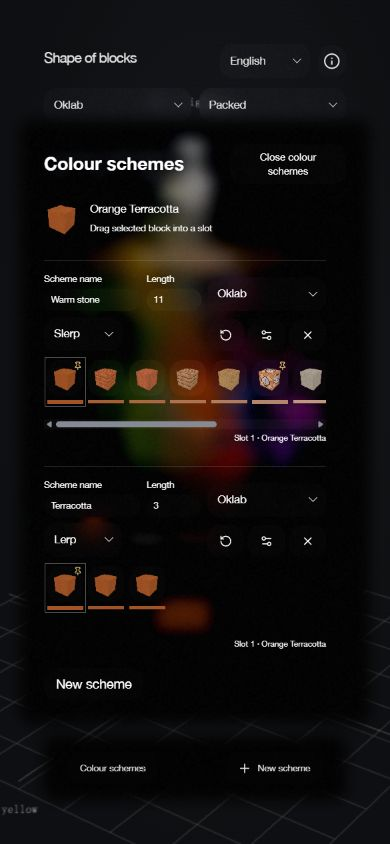
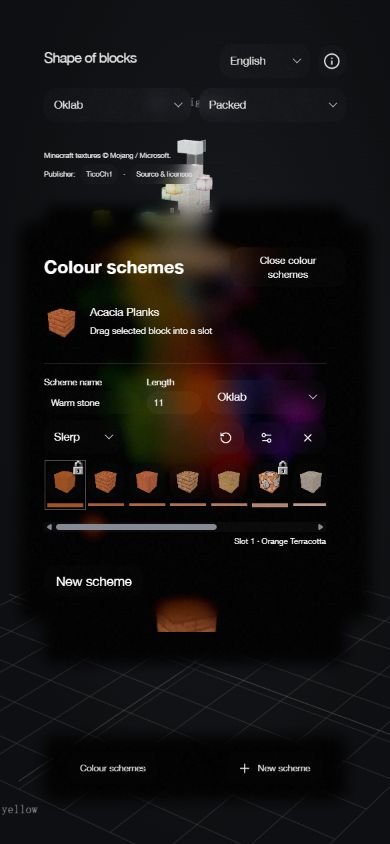
Keep colour scheme blocks unique and use vanilla lock badge

diff --git a/src/ColourSchemes.tsx b/src/ColourSchemes.tsx
@@ -2,10 +2,10 @@ import {BlockThumbnail} from './BlockThumbnail';
 import {DraggableBlock} from './DraggableBlock';
 import {useEffect,useMemo,useState} from 'react';
 import {GlassPanel,GlassButton,GlassInput,GlassSelect,GlassSwitch,GlassScrollArea,GlassDialog} from '@form-glass/react';
-import {Plus,Settings2,X,Pin,RotateCcw} from 'lucide-react';
+import {Plus,Settings2,X,RotateCcw} from 'lucide-react';
 import {GeometryFilter} from './GeometryFilter';
 import {VarianceRange} from './VarianceRange';
-import {schemeCells,toggleSchemePin,refreshScheme,dropSchemeBlock,resizeScheme,schemeLength,schemeMime} from './schemes.mjs';
+import {uniqueScheme,schemeCells,toggleSchemePin,refreshScheme,dropSchemeBlock,resizeScheme,schemeLength,schemeMime} from './schemes.mjs';
 import {spaces} from './spaces.mjs';
 import {materialVariance,filterBlocks} from './color.mjs';
 import {useLocale} from './i18n';
@@ -32,7 +32,7 @@ function SchemeRow({scheme,blocks,resources,collection,blacklist,onChange,onDele
   </div>
   <GlassScrollArea label="Scheme blocks" height={78} viewportClassName="scheme-cells-viewport"><div className="scheme-cells">
    {cells.map(cell=><div key={cell.index} className="scheme-cell" data-scheme-id={scheme.id} data-scheme-slot={cell.index} data-anchor={cell.anchor} data-selected={slot===cell.index} data-drop={hover===cell.index} onDragOver={e=>{if(e.dataTransfer.types.includes(schemeMime)||e.dataTransfer.types.includes('text/plain')){e.preventDefault();e.dataTransfer.dropEffect='copy';setHover(cell.index);}}} onDragLeave={()=>setHover(null)} onDrop={e=>{e.preventDefault();setHover(null);const id=e.dataTransfer.getData(schemeMime)||e.dataTransfer.getData('text/plain');if(blocks.some(b=>b.id===id))document.dispatchEvent(new CustomEvent('block-gamut-scheme-drop',{detail:{scheme:scheme.id,slot:cell.index,block:id}}));}}>
-    <DraggableBlock id={cell.id||cell.block?.id||''} name={cell.block?.name||cell.id||t('Empty slot')} source={{scheme:scheme.id,slot:cell.index}} className="scheme-block" onClick={()=>toggle(cell.index)}><GlassButton aria-label={`${t('Scheme slot')} ${cell.index+1}: ${cell.id||cell.block?.id||'minecraft:air'}`} aria-pressed={cell.anchor} title={cell.block?`${cell.block.name} · ${cell.block.id}\n${t('Click to pin or unpin')}`:cell.id?`${cell.id} · ${t('Unavailable in this release')}`:t('Drop a block here')} onClick={e=>{if(e.detail===0)toggle(cell.index);}}>{cell.block?<BlockThumbnail id={cell.block.id} resources={resources}/>:<span aria-hidden="true">+</span>}{cell.anchor&&<Pin className="scheme-pin" size={9}/>}</GlassButton></DraggableBlock>
+    <DraggableBlock id={cell.id||cell.block?.id||''} name={cell.block?.name||cell.id||t('Empty slot')} source={{scheme:scheme.id,slot:cell.index}} className="scheme-block" onClick={()=>toggle(cell.index)}><GlassButton aria-label={`${t('Scheme slot')} ${cell.index+1}: ${cell.id||cell.block?.id||'minecraft:air'}`} aria-pressed={cell.anchor} title={cell.block?`${cell.block.name} · ${cell.block.id}\n${t('Click to pin or unpin')}`:cell.id?`${cell.id} · ${t('Unavailable in this release')}`:t('Drop a block here')} onClick={e=>{if(e.detail===0)toggle(cell.index);}}>{cell.block?<BlockThumbnail id={cell.block.id} resources={resources}/>:<span aria-hidden="true">+</span>}{cell.anchor&&<span className="scheme-pin" aria-hidden="true"/>}</GlassButton></DraggableBlock>
     <span className="scheme-target" style={{background:cell.target||'transparent'}} title={cell.target||t('No control points')}/>
    </div>)}
   </div></GlassScrollArea>
@@ -42,7 +42,12 @@ function SchemeRow({scheme,blocks,resources,collection,blacklist,onChange,onDele
 
 export function ColourSchemes({blocks,resources,selected,space,categories,collection,blacklist,onPick}:{blocks:Block[];resources:ModelResources|null;selected:Block|undefined;space:Space;categories:string[];collection:string[];blacklist:string[];onPick:(id:string)=>void}){
  const {view,t}=useLocale();
- const [schemes,setSchemes]=useState<Scheme[]>(()=>JSON.parse(localStorage.getItem('block-gamut-schemes')||'[]',(_key,value)=>value==='Infinity'?Infinity:value).map((s:Scheme)=>s.tiles?s:{...s,tiles:schemeCells(s,blocks,{collection,blacklist}).map(c=>c.id||c.block?.id||null)}));
+ const [schemes,setSchemes]=useState<Scheme[]>(()=>JSON.parse(localStorage.getItem('block-gamut-schemes')||'[]',(_key,value)=>value==='Infinity'?Infinity:value).map((s:Scheme)=>{
+  const normalized=uniqueScheme(s);
+  const ids=s.tiles?.filter(Boolean)||[];
+  if(new Set(ids).size<ids.length)return refreshScheme(normalized,blocks,{collection,blacklist});
+  return normalized.tiles?normalized:{...normalized,tiles:schemeCells(normalized,blocks,{collection,blacklist}).map(c=>c.id||c.block?.id||null)};
+ }));
  const [settings,setSettings]=useState<string|null>(null),[expanded,setExpanded]=useState(true),[mobileOpen,setMobileOpen]=useState(false);
  useEffect(()=>localStorage.setItem('block-gamut-schemes',JSON.stringify(schemes,(_key,value)=>value===Infinity?'Infinity':value)),[schemes]);
  useEffect(()=>{const drop=(event:Event)=>setSchemes(list=>dropSchemeBlock(list,(event as CustomEvent).detail,blocks,{collection,blacklist}));document.addEventListener('block-gamut-scheme-drop',drop);return()=>document.removeEventListener('block-gamut-scheme-drop',drop);},[blocks,collection,blacklist]);

diff --git a/src/style.css b/src/style.css
@@ -59,7 +59,7 @@ html,body,#atlas,[data-form-glass-root]{height:100%;width:100%;margin:0}body{ove
 .draggable-block{cursor:grab}.draggable-block:active{cursor:grabbing}.drag-block-hint{font-size:9px!important}
 .colour-schemes{--schemes-height:min(220px,calc(100dvh - 390px));position:absolute!important;bottom:136px;left:50%;transform:translateX(-50%);width:min(640px,calc(100dvw - 736px));min-width:280px;box-sizing:border-box;padding:24px 32px!important}
 .scheme-manager-heading{display:flex;justify-content:space-between;align-items:center;gap:8px}.scheme-manager-heading button{font-size:10px;gap:6px}.scheme-rows{padding:4px 18px 4px 0}.scheme-row{padding:12px 0;border-top:1px solid var(--line);margin-top:8px}.scheme-row-heading{display:flex;align-items:center;gap:6px;font-size:11px}.scheme-row-heading button{padding:6px;min-height:25px}
-.scheme-cells{display:flex;gap:5px;width:max-content;padding:9px 3px}.scheme-cell{width:40px;position:relative}.scheme-block>button{width:40px;height:40px;padding:4px;position:relative}.scheme-cell canvas{width:32px;height:32px;display:block;image-rendering:pixelated}.scheme-cell[data-selected=true]{outline:1px solid #ffffff60;outline-offset:2px}.scheme-cell[data-drop=true]{outline:1px solid #e8c67a;outline-offset:2px}.scheme-pin{position:absolute;right:1px;top:1px;color:#e8c67a}.scheme-target{height:3px;margin-top:4px;display:block}.scheme-row-actions{display:flex;align-items:center;gap:4px;flex-wrap:wrap}.scheme-row-actions button{font-size:8px;padding:5px 7px;min-height:25px}.scheme-row-actions>span{font-size:8px;color:var(--muted);margin-left:auto}.scheme-hint{font-size:9px;line-height:1.6;color:var(--muted);padding-right:18px;margin:5px 0}.scheme-settings-content{display:flex;flex-direction:column;gap:10px;padding-right:20px}.scheme-settings-content .glass-select{width:100%}
+.scheme-cells{display:flex;gap:5px;width:max-content;padding:9px 3px}.scheme-cell{width:40px;position:relative}.scheme-block>button{width:40px;height:40px;padding:4px;position:relative}.scheme-cell canvas{width:32px;height:32px;display:block;image-rendering:pixelated}.scheme-cell[data-selected=true]{outline:1px solid #ffffff60;outline-offset:2px}.scheme-cell[data-drop=true]{outline:1px solid #e8c67a;outline-offset:2px}.scheme-pin{position:absolute;right:0;top:-2px;width:10px;height:14px;background:url(./assets/minecraft-locked.png) center/10px 14px no-repeat;image-rendering:pixelated;filter:drop-shadow(0 1px 1px #000);pointer-events:none}.scheme-target{height:3px;margin-top:4px;display:block}.scheme-row-actions{display:flex;align-items:center;gap:4px;flex-wrap:wrap}.scheme-row-actions button{font-size:8px;padding:5px 7px;min-height:25px}.scheme-row-actions>span{font-size:8px;color:var(--muted);margin-left:auto}.scheme-hint{font-size:9px;line-height:1.6;color:var(--muted);padding-right:18px;margin:5px 0}.scheme-settings-content{display:flex;flex-direction:column;gap:10px;padding-right:20px}.scheme-settings-content .glass-select{width:100%}
 @media(max-width:1100px) and (min-width:761px){.colour-schemes{width:calc(100dvw - 648px);min-width:220px;padding:24px!important}.scheme-manager-heading{flex-wrap:wrap}.scheme-manager-heading button{font-size:9px}.scheme-manager-heading span{display:none}}
 @media(max-width:760px){.colour-schemes{bottom:var(--gutter);width:calc(100dvw - 2 * var(--gutter));min-width:0;padding:16px 24px!important;--schemes-height:min(210px,calc(100dvh - 330px))}.scheme-manager-heading button{font-size:9px}.scheme-rows{padding-right:20px}.scheme-cell{width:36px}.scheme-block>button{width:36px;height:36px}.scheme-cell canvas{width:28px;height:28px}}
 

diff --git a/README.md b/README.md
@@ -110,7 +110,7 @@ Drag the selected block's **title or model thumbnail in the right inspector** in
 
 Use the row's **refresh arrow** to fill unpinned slots with the current colour space, interpolation and filters. Pinned blocks remain exact. Edits stay visible until refresh; when there are no pins, refresh uses the first and last remaining blocks as temporary endpoints. Incoming inspector blocks start unpinned. Clicking a slot also displays its actual block in the inspector, including blocks outside the explorer filters.
 
-Unpinned slots interpolate between neighbouring control points in the scheme's colour space, then match the nearest eligible material in that space. **Lerp** is the default: it blends channel values linearly, using the shortest hue arc in HSV/HSL and chroma in HSL bicone. **Slerp** follows the shortest spherical arc in the atlas's fixed coordinate metric, around that space's black origin, while blending distance from black linearly. Hue spaces use their cylinder or bicone geometry. Output colours are clipped to valid channel/RGB bounds. Exact control points remain unchanged in either mode. Outside the outermost control points the endpoint colour is held. The thin swatch below each cell shows the target colour; the thumbnail shows a three-dimensional preview of the matched Minecraft block. Technical blocks such as `minecraft:test_block` retain their original appearance and are identified by name and ID. With no eligible material, an interpolated slot stays empty. Control points retain their exact block IDs even when excluded by that scheme's filters or unavailable in another release.
+Unpinned slots interpolate between neighbouring control points in the scheme's colour space, then match the nearest eligible block that is not already used in the row. **Lerp** is the default: it blends channel values linearly, using the shortest hue arc in HSV/HSL and chroma in HSL bicone. **Slerp** follows the shortest spherical arc in the atlas's fixed coordinate metric, around that space's black origin, while blending distance from black linearly. Hue spaces use their cylinder or bicone geometry. Output colours are clipped to valid channel/RGB bounds. Exact control points remain unchanged in either mode. Outside the outermost control points the endpoint colour is held. The thin swatch below each cell shows the target colour; the thumbnail shows a three-dimensional preview of the matched Minecraft block. Technical blocks such as `minecraft:test_block` retain their original appearance and are identified by name and ID. Each block ID appears at most once per scheme, including pins. When eligible unused blocks run out, the remaining slots stay empty. Dropping a block already present in the destination row moves its existing occurrence and preserves its pin. Resizing keeps existing blocks unique and leaves new slots empty until refresh. Previously saved duplicate rows are deduplicated and refreshed when loaded. The pin badge uses Minecraft’s original cartography-table lock texture. Control points retain their exact block IDs even when excluded by that scheme's filters or unavailable in another release.
 
 **Scheme filters** contains geometry categories, search, collection/blacklist choice, variance range, opacity and biome tint inclusion. Variance bounds are remembered separately for each scheme's colour spaces. Resizing distributes control points proportionally across the new integer slots; if several land on one slot, the later point is retained. Rename, remove, collapse or add schemes as needed. Schemes are saved in this browser and survive reloads; collection and blacklist entries remain session-based.
 

diff --git a/THIRD_PARTY_NOTICES.md b/THIRD_PARTY_NOTICES.md
@@ -24,6 +24,9 @@ licenses remain applicable. Minecraft textures, models and related assets © Moj
   Identical texture pixels are stored once; release changes use incremental
   catalog, model and animation records. Models show representative
   placed states, including static previews for special renderers.
+  The scheme pin badge uses the unchanged Java 26.3 GUI sprite
+  `assets/minecraft/textures/gui/sprites/container/cartography_table/locked.png`
+  (bundled as `src/assets/minecraft-locked.png`).
   See `licenses/MINECRAFT-ASSETS.md`.
 - Palette colours and surface statistics derive from each selected release's
   original Minecraft face texels, weighted by face area and transparency.
